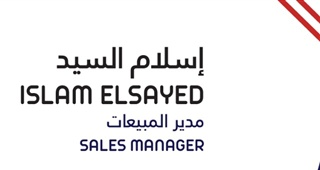
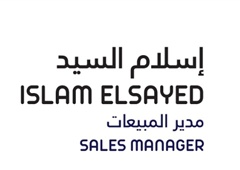
3 column from 2

diff --git a/leading-goals/islam-elsayed/islam-elsayed-sign.html b/leading-goals/islam-elsayed/islam-elsayed-sign.html
@@ -11,126 +11,108 @@
 </head>
 <body style="margin:0; padding:0;">
 
+<!--
+  Islam Elsayed — Sales Manager — Leading Safety / Leading Goals Group
+  Layout: 3 columns (480px left | 240px contact | 80px QR+decoration)
+  Total: 800x355px
+-->
+
 <table style="width:800px; border-collapse:collapse; border-spacing:0; border:none;">
     <tr>
-        <!-- LEFT COLUMN: full-height logo panel (480x355) -->
+
+        <!-- COL 1: Left panel — logo + company (480x355) -->
         <td style="width:480px; padding:0; margin:0; border:none; vertical-align:top;">
             <a href="https://www.leadinggoals.sa" target="_blank" style="display:block; border:none; outline:none; text-decoration:none;">
-                <img src="https://raw.githubusercontent.com/arshadkaleem/email-signnature/refs/heads/main/islam-slices/01_left_main.jpg" width="480" height="355" alt="Leading Safety - Leading Goals Group" style="display:block; width:480px; height:355px; border:none; outline:none;">
+                <img src="https://raw.githubusercontent.com/arshadkaleem/email-signnature/refs/heads/main/leading-goals/islam-elsayed/islam-slices/01_left_main.jpg" width="480" height="355" alt="Leading Safety - Leading Goals Group" style="display:block; width:480px; height:355px; border:none; outline:none;">
             </a>
         </td>
 
-        <!-- RIGHT COLUMN: contact info + bottom section (320x355) -->
-        <td style="width:320px; padding:0; margin:0; border:none; vertical-align:top;">
-            <table style="width:320px; border-collapse:collapse; border-spacing:0; border:none;">
+        <!-- COL 2: Contact info (240x355) -->
+        <td style="width:240px; padding:0; margin:0; border:none; vertical-align:top;">
+            <table style="width:240px; border-collapse:collapse; border-spacing:0; border:none;">
 
-                <!-- Header: name & title (320x170) -->
+                <!-- Name & title (240x170) -->
                 <tr>
                     <td style="padding:0; margin:0; border:none;">
                         <a href="https://www.leadinggoals.sa" target="_blank" style="display:block; border:none; outline:none; text-decoration:none;">
-                            <img src="https://raw.githubusercontent.com/arshadkaleem/email-signnature/refs/heads/main/islam-slices/02_right_header.jpg" width="320" height="170" alt="Islam Elsayed - Sales Manager" style="display:block; width:320px; height:170px; border:none; outline:none;">
+                            <img src="https://raw.githubusercontent.com/arshadkaleem/email-signnature/refs/heads/main/leading-goals/islam-elsayed/islam-slices/02_right_header.jpg" width="240" height="170" alt="Islam Elsayed - Sales Manager" style="display:block; width:240px; height:170px; border:none; outline:none;">
                         </a>
                     </td>
                 </tr>
 
-                <!-- Phone (320x30) -->
+                <!-- Phone (240x30) -->
                 <tr>
                     <td style="padding:0; margin:0; border:none;">
                         <a href="tel:+966553720706" style="display:block; border:none; outline:none; text-decoration:none;">
-                            <img src="https://raw.githubusercontent.com/arshadkaleem/email-signnature/refs/heads/main/islam-slices/03_right_phone.jpg" width="320" height="30" alt="Phone +966 55 372 0706" style="display:block; width:320px; height:30px; border:none; outline:none;">
+                            <img src="https://raw.githubusercontent.com/arshadkaleem/email-signnature/refs/heads/main/leading-goals/islam-elsayed/islam-slices/03_right_phone.jpg" width="240" height="30" alt="Phone +966 55 372 0706" style="display:block; width:240px; height:30px; border:none; outline:none;">
                         </a>
                     </td>
                 </tr>
 
-                <!-- Email (320x28) -->
+                <!-- Email (240x28) -->
                 <tr>
                     <td style="padding:0; margin:0; border:none;">
                         <a href="mailto:i.elsayed@leadinggoals.sa" style="display:block; border:none; outline:none; text-decoration:none;">
-                            <img src="https://raw.githubusercontent.com/arshadkaleem/email-signnature/refs/heads/main/islam-slices/04_right_email.jpg" width="320" height="28" alt="Email i.elsayed@leadinggoals.sa" style="display:block; width:320px; height:28px; border:none; outline:none;">
+                            <img src="https://raw.githubusercontent.com/arshadkaleem/email-signnature/refs/heads/main/leading-goals/islam-elsayed/islam-slices/04_right_email.jpg" width="240" height="28" alt="Email i.elsayed@leadinggoals.sa" style="display:block; width:240px; height:28px; border:none; outline:none;">
                         </a>
                     </td>
                 </tr>
 
-                <!-- Website (320x28) -->
+                <!-- Website (240x28) -->
                 <tr>
                     <td style="padding:0; margin:0; border:none;">
                         <a href="https://www.leadinggoals.sa" target="_blank" style="display:block; border:none; outline:none; text-decoration:none;">
-                            <img src="https://raw.githubusercontent.com/arshadkaleem/email-signnature/refs/heads/main/islam-slices/05_right_website.jpg" width="320" height="28" alt="Website www.leadinggoals.sa" style="display:block; width:320px; height:28px; border:none; outline:none;">
+                            <img src="https://raw.githubusercontent.com/arshadkaleem/email-signnature/refs/heads/main/leading-goals/islam-elsayed/islam-slices/05_right_website.jpg" width="240" height="28" alt="Website www.leadinggoals.sa" style="display:block; width:240px; height:28px; border:none; outline:none;">
                         </a>
                     </td>
                 </tr>
 
-                <!-- Bottom section: location+icons (240px) | QR (80px) — total 320x99 -->
+                <!-- Location (240x44) -->
                 <tr>
                     <td style="padding:0; margin:0; border:none;">
-                        <table style="width:320px; border-collapse:collapse; border-spacing:0; border:none;">
+                        <a href="https://maps.google.com/?q=Al-Rehab+Dist,+Jeddah" target="_blank" style="display:block; border:none; outline:none; text-decoration:none;">
+                            <img src="https://raw.githubusercontent.com/arshadkaleem/email-signnature/refs/heads/main/leading-goals/islam-elsayed/islam-slices/06_right_location.jpg" width="240" height="44" alt="Al-Rehab Dist. Jeddah" style="display:block; width:240px; height:44px; border:none; outline:none;">
+                        </a>
+                    </td>
+                </tr>
+
+                <!-- Social icons (240x55 = 10+35+28+28+26+113) -->
+                <tr>
+                    <td style="padding:0; margin:0; border:none;">
+                        <table style="width:240px; border-collapse:collapse; border-spacing:0; border:none;">
                             <tr>
-
-                                <!-- Location + social icons column (240x99) -->
-                                <td style="width:240px; padding:0; margin:0; border:none; vertical-align:top;">
-                                    <table style="width:240px; border-collapse:collapse; border-spacing:0; border:none;">
-
-                                        <!-- Location (240x44) -->
-                                        <tr>
-                                            <td style="padding:0; margin:0; border:none;">
-                                                <a href="https://maps.google.com/?q=Al-Rehab+Dist,+Jeddah" target="_blank" style="display:block; border:none; outline:none; text-decoration:none;">
-                                                    <img src="https://raw.githubusercontent.com/arshadkaleem/email-signnature/refs/heads/main/islam-slices/06_right_location.jpg" width="240" height="44" alt="Al-Rehab Dist. Jeddah" style="display:block; width:240px; height:44px; border:none; outline:none;">
-                                                </a>
-                                            </td>
-                                        </tr>
-
-                                        <!-- Social icons row (240x55 = 10+35+28+28+26+113) -->
-                                        <tr>
-                                            <td style="padding:0; margin:0; border:none;">
-                                                <table style="width:240px; border-collapse:collapse; border-spacing:0; border:none;">
-                                                    <tr>
-                                                        <!-- Leading decoration 10px -->
-                                                        <td style="width:10px; padding:0; margin:0; border:none;">
-                                                            <img src="https://raw.githubusercontent.com/arshadkaleem/email-signnature/refs/heads/main/islam-slices/08_bottom_before.jpg" width="10" height="55" alt="" style="display:block; width:10px; height:55px; border:none; outline:none;">
-                                                        </td>
-                                                        <!-- TikTok 35px -->
-                                                        <td style="width:35px; padding:0; margin:0; border:none;">
-                                                            <a href="https://www.tiktok.com/@leadinggoals" target="_blank" style="display:block; border:none; outline:none; text-decoration:none;">
-                                                                <img src="https://raw.githubusercontent.com/arshadkaleem/email-signnature/refs/heads/main/islam-slices/09_icon_tiktok.jpg" width="35" height="55" alt="TikTok" style="display:block; width:35px; height:55px; border:none; outline:none;">
-                                                            </a>
-                                                        </td>
-                                                        <!-- LinkedIn 28px -->
-                                                        <td style="width:28px; padding:0; margin:0; border:none;">
-                                                            <a href="https://www.linkedin.com/company/leadinggoals" target="_blank" style="display:block; border:none; outline:none; text-decoration:none;">
-                                                                <img src="https://raw.githubusercontent.com/arshadkaleem/email-signnature/refs/heads/main/islam-slices/10_icon_linkedin.jpg" width="28" height="55" alt="LinkedIn" style="display:block; width:28px; height:55px; border:none; outline:none;">
-                                                            </a>
-                                                        </td>
-                                                        <!-- Instagram 28px -->
-                                                        <td style="width:28px; padding:0; margin:0; border:none;">
-                                                            <a href="https://www.instagram.com/leadinggoals" target="_blank" style="display:block; border:none; outline:none; text-decoration:none;">
-                                                                <img src="https://raw.githubusercontent.com/arshadkaleem/email-signnature/refs/heads/main/islam-slices/11_icon_instagram.jpg" width="28" height="55" alt="Instagram" style="display:block; width:28px; height:55px; border:none; outline:none;">
-                                                            </a>
-                                                        </td>
-                                                        <!-- X 26px -->
-                                                        <td style="width:26px; padding:0; margin:0; border:none;">
-                                                            <a href="https://x.com/leadinggoals" target="_blank" style="display:block; border:none; outline:none; text-decoration:none;">
-                                                                <img src="https://raw.githubusercontent.com/arshadkaleem/email-signnature/refs/heads/main/islam-slices/12_icon_x.jpg" width="26" height="55" alt="X" style="display:block; width:26px; height:55px; border:none; outline:none;">
-                                                            </a>
-                                                        </td>
-                                                        <!-- Trailing decoration 113px -->
-                                                        <td style="width:113px; padding:0; margin:0; border:none;">
-                                                            <img src="https://raw.githubusercontent.com/arshadkaleem/email-signnature/refs/heads/main/islam-slices/13_bottom_trailing.jpg" width="113" height="55" alt="" style="display:block; width:113px; height:55px; border:none; outline:none;">
-                                                        </td>
-                                                    </tr>
-                                                </table>
-                                            </td>
-                                        </tr>
-
-                                    </table>
+                                <!-- Leading decoration 10px -->
+                                <td style="width:10px; padding:0; margin:0; border:none;">
+                                    <img src="https://raw.githubusercontent.com/arshadkaleem/email-signnature/refs/heads/main/leading-goals/islam-elsayed/islam-slices/08_bottom_before.jpg" width="10" height="55" alt="" style="display:block; width:10px; height:55px; border:none; outline:none;">
                                 </td>
-
-                                <!-- QR code column (80x99) -->
-                                <td style="width:80px; padding:0; margin:0; border:none; vertical-align:top;">
-                                    <a href="https://www.leadinggoals.sa" target="_blank" style="display:block; border:none; outline:none; text-decoration:none;">
-                                        <img src="https://raw.githubusercontent.com/arshadkaleem/email-signnature/refs/heads/main/islam-slices/07_right_qr.jpg" width="80" height="99" alt="QR Code - Leading Goals" style="display:block; width:80px; height:99px; border:none; outline:none;">
+                                <!-- TikTok 35px -->
+                                <td style="width:35px; padding:0; margin:0; border:none;">
+                                    <a href="https://www.tiktok.com/@leadinggoals" target="_blank" style="display:block; border:none; outline:none; text-decoration:none;">
+                                        <img src="https://raw.githubusercontent.com/arshadkaleem/email-signnature/refs/heads/main/leading-goals/islam-elsayed/islam-slices/09_icon_tiktok.jpg" width="35" height="55" alt="TikTok" style="display:block; width:35px; height:55px; border:none; outline:none;">
                                     </a>
                                 </td>
-
+                                <!-- LinkedIn 28px -->
+                                <td style="width:28px; padding:0; margin:0; border:none;">
+                                    <a href="https://www.linkedin.com/company/leadinggoals" target="_blank" style="display:block; border:none; outline:none; text-decoration:none;">
+                                        <img src="https://raw.githubusercontent.com/arshadkaleem/email-signnature/refs/heads/main/leading-goals/islam-elsayed/islam-slices/10_icon_linkedin.jpg" width="28" height="55" alt="LinkedIn" style="display:block; width:28px; height:55px; border:none; outline:none;">
+                                    </a>
+                                </td>
+                                <!-- Instagram 28px -->
+                                <td style="width:28px; padding:0; margin:0; border:none;">
+                                    <a href="https://www.instagram.com/leadinggoals" target="_blank" style="display:block; border:none; outline:none; text-decoration:none;">
+                                        <img src="https://raw.githubusercontent.com/arshadkaleem/email-signnature/refs/heads/main/leading-goals/islam-elsayed/islam-slices/11_icon_instagram.jpg" width="28" height="55" alt="Instagram" style="display:block; width:28px; height:55px; border:none; outline:none;">
+                                    </a>
+                                </td>
+                                <!-- X 26px -->
+                                <td style="width:26px; padding:0; margin:0; border:none;">
+                                    <a href="https://x.com/leadinggoals" target="_blank" style="display:block; border:none; outline:none; text-decoration:none;">
+                                        <img src="https://raw.githubusercontent.com/arshadkaleem/email-signnature/refs/heads/main/leading-goals/islam-elsayed/islam-slices/12_icon_x.jpg" width="26" height="55" alt="X" style="display:block; width:26px; height:55px; border:none; outline:none;">
+                                    </a>
+                                </td>
+                                <!-- Trailing decoration 113px -->
+                                <td style="width:113px; padding:0; margin:0; border:none;">
+                                    <img src="https://raw.githubusercontent.com/arshadkaleem/email-signnature/refs/heads/main/leading-goals/islam-elsayed/islam-slices/13_bottom_trailing.jpg" width="113" height="55" alt="" style="display:block; width:113px; height:55px; border:none; outline:none;">
+                                </td>
                             </tr>
                         </table>
                     </td>
@@ -138,6 +120,14 @@
 
             </table>
         </td>
+
+        <!-- COL 3: Decorative corner + QR code (80x355) -->
+        <td style="width:80px; padding:0; margin:0; border:none; vertical-align:top;">
+            <a href="https://www.leadinggoals.sa" target="_blank" style="display:block; border:none; outline:none; text-decoration:none;">
+                <img src="https://raw.githubusercontent.com/arshadkaleem/email-signnature/refs/heads/main/leading-goals/islam-elsayed/islam-slices/07_right_col3.jpg" width="80" height="355" alt="QR Code - Leading Goals" style="display:block; width:80px; height:355px; border:none; outline:none;">
+            </a>
+        </td>
+
     </tr>
 </table>
 
